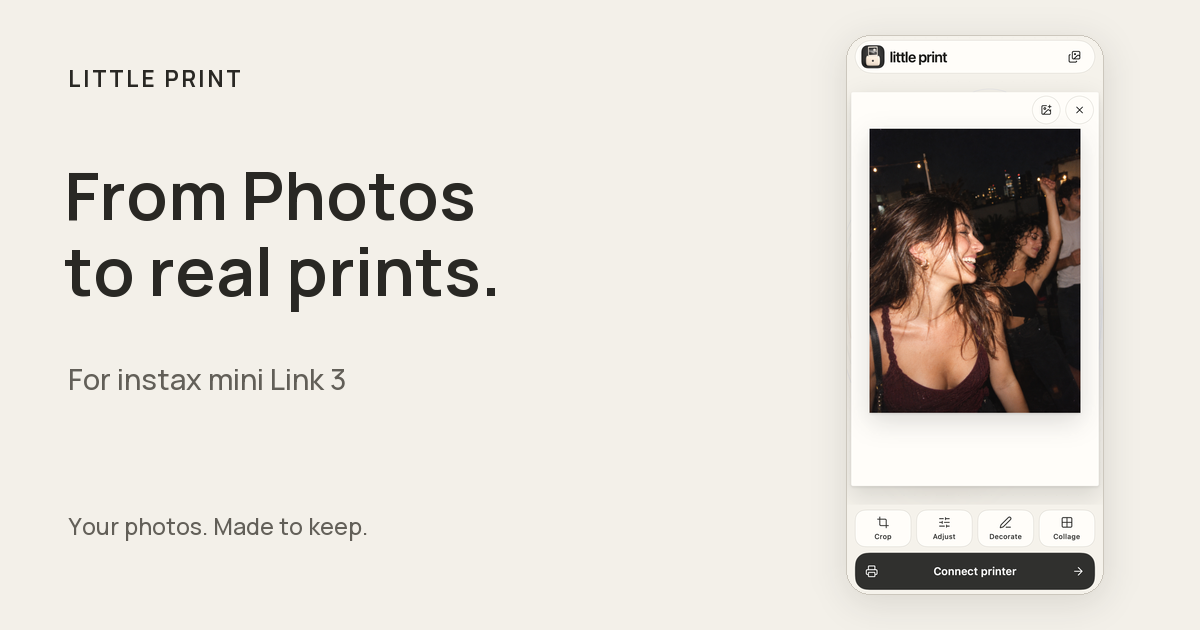
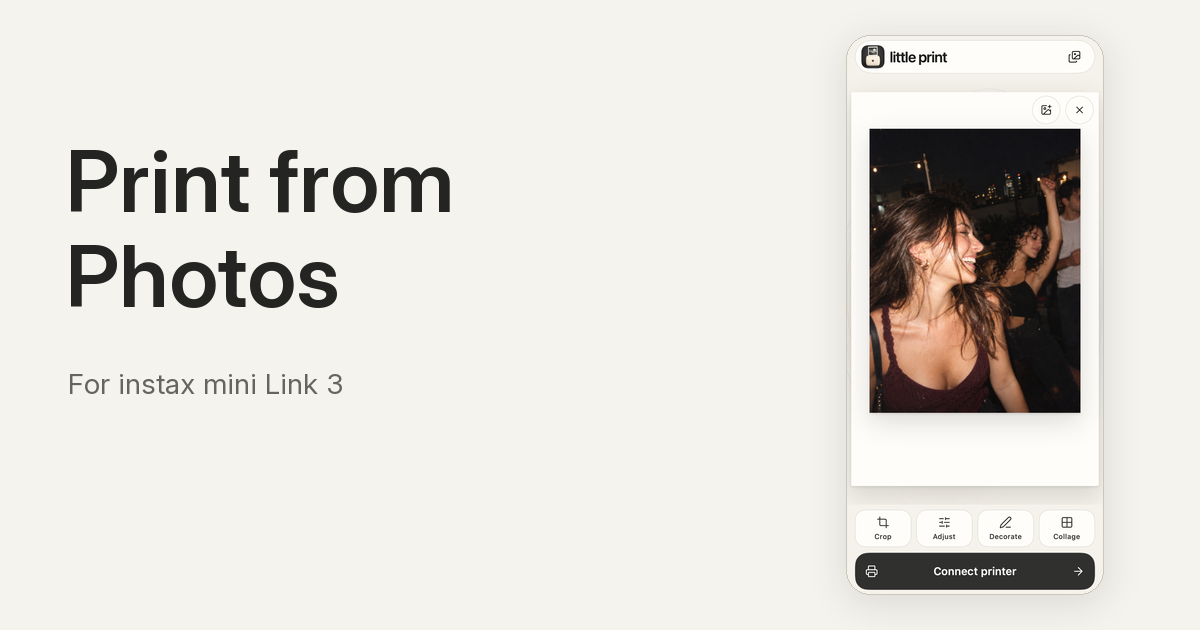
Update social preview with refined Print from Photos headline

diff --git a/README.md b/README.md
@@ -14,7 +14,7 @@ The app is currently Waiting for Review. `release.js` deliberately sets `isRelea
 
 - `icon-monochrome.png`: existing app-owned icon.
 - `assets/editor.png`, `share.png`, `collage.png`, `collection.png`: actual native view renders from the current store screenshot set under `build/marketing-lifestyle-shots/1290x2796/` in the parent workspace. Example images are demonstration content, not a user's print history. The page labels these as interface previews.
-- `assets/social-card.png`: 1200×630 social card from `build/marketing-v3/social-og-1200x630.png` in the parent workspace, using the app-owned icon and actual editor render.
+- `assets/social-card.png`: 1200×630 social card from `build/marketing-v4/social-og-1200x630.png` in the parent workspace, using the app-owned icon and actual editor render.
 
 The original privacy and support sections are retained, including local processing, Bluetooth, same-phone App Group sharing, waiting tray limits, explicit printing, exports, deletion limits, public issue handling, and voluntary TestFlight feedback. This site does not advertise shared albums, simultaneous printer connections, removed creative-camera features, or compatibility with all printers.
 
